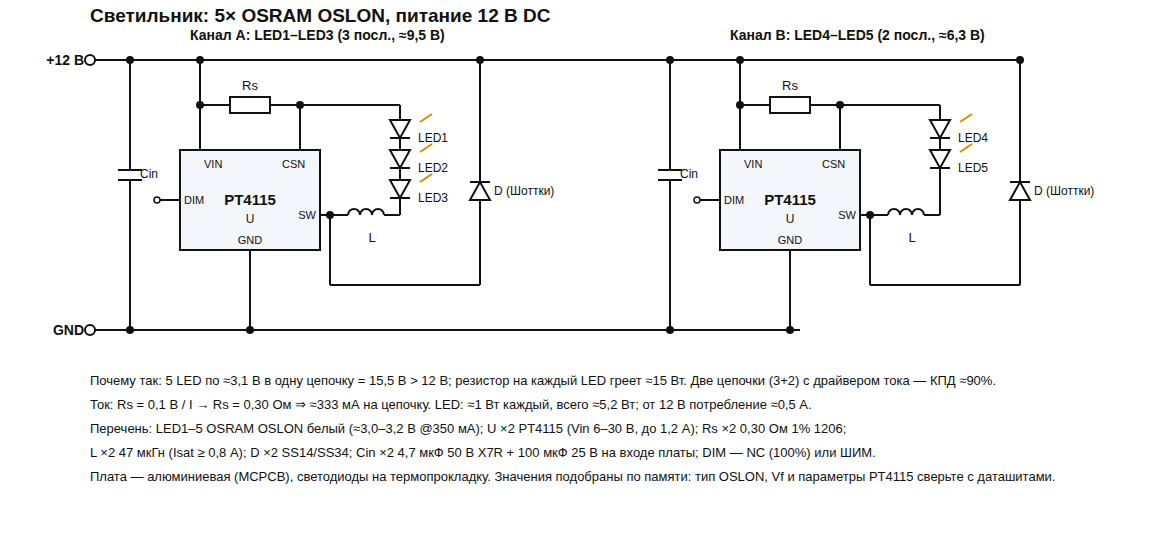
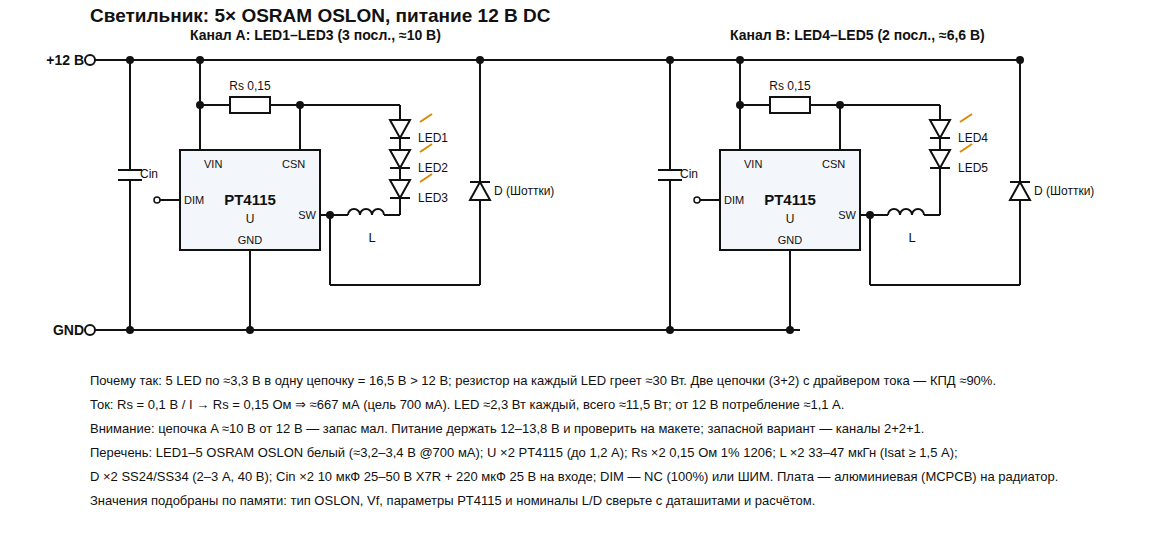
Update lamp schematic for 700 mA and add colored PCB mockup
Claude-Session: https://claude.ai/code/session_01RYAnzsGrTENTgmumnvRpco

diff --git a/led_lamp/make_mockup.py b/led_lamp/make_mockup.py
@@ -1,0 +1,70 @@
+K=8
+def board(ox,oy,on):
+    X=lambda v: ox+K*v; Y=lambda v: oy+K*v
+    g=[]
+    A=g.append
+    A(f'<rect x="{ox}" y="{oy}" width="{130*K}" height="{50*K}" rx="26" fill="#f4f4ef" stroke="#cfd2cc" stroke-width="3" filter="url(#sh)"/>')
+    # traces (copper under mask)
+    def path(d,w=9,c="#e9d6ae"): A(f'<path d="{d}" fill="none" stroke="{c}" stroke-width="{w}" stroke-linecap="round" stroke-linejoin="round"/>')
+    P=lambda pts:'M '+' L '.join(f'{X(a)},{Y(b)}' for a,b in pts)
+    path(P([(27,14),(55,14)])); path(P([(27,14),(24,14),(24,31)])); path(P([(55,14),(60,14),(60,24),(46,24),(46,35)]))
+    path(P([(67,14),(80,14)])); path(P([(67,14),(74,14),(74,31)])); path(P([(80,14),(88,14),(88,24),(96,24),(96,35)]))
+    path(P([(9,22),(16,22),(16,30),(110,30)]),11,"#e3c98e"); path(P([(9,28),(14,28),(14,48),(112,48)]),11,"#e3c98e")
+    # holes
+    for hx,hy in [(4.5,4.5),(125.5,4.5),(4.5,45.5),(125.5,45.5)]:
+        A(f'<circle cx="{X(hx)}" cy="{Y(hy)}" r="{2.4*K}" fill="#d8dbe0" stroke="#b9bec6" stroke-width="2"/><circle cx="{X(hx)}" cy="{Y(hy)}" r="{1.6*K}" fill="#1d2127"/>')
+    # glow under LEDs
+    xs=[28,41,54,67,80]
+    if on:
+        for x in xs: A(f'<circle cx="{X(x)}" cy="{Y(14)}" r="{13*K}" fill="url(#glow)"/>')
+    # LEDs
+    for i,x in enumerate(xs):
+        A(f'<rect x="{X(x-2.4)}" y="{Y(14-1.3)}" width="{4.8*K}" height="{2.6*K}" rx="3" fill="#d4af37"/>')
+        A(f'<rect x="{X(x-1.5)}" y="{Y(14-1.5)}" width="{3*K}" height="{3*K}" rx="4" fill="#fbfbf6" stroke="#b9b9b0" stroke-width="1.5"/>')
+        A(f'<rect x="{X(x-0.85)}" y="{Y(14-0.85)}" width="{1.7*K}" height="{1.7*K}" rx="2" fill="{"#fffbe0" if on else "#e9b92a"}" stroke="#c99a1a" stroke-width="1"/>')
+        if on: A(f'<circle cx="{X(x)}" cy="{Y(14)}" r="{2.2*K}" fill="#fff6c0" filter="url(#bl)"/>')
+        A(f'<text x="{X(x)}" y="{Y(20)}" font-size="17" text-anchor="middle" fill="#222">LED{i+1}</text>')
+    # terminal
+    A(f'<rect x="{X(3)}" y="{Y(18.5)}" width="{9*K}" height="{13*K}" rx="4" fill="#2f6fd6" stroke="#1d4a99" stroke-width="2"/>')
+    for cy in (22,28): A(f'<circle cx="{X(8.2)}" cy="{Y(cy)}" r="{2.1*K}" fill="#d7dbe1" stroke="#8d949e" stroke-width="2"/><line x1="{X(7.0)}" y1="{Y(cy)}" x2="{X(9.4)}" y2="{Y(cy)}" stroke="#555" stroke-width="3"/>')
+    A(f'<rect x="{X(3)}" y="{Y(19.5)}" width="{2*K}" height="{11*K}" fill="#1d4a99"/>')
+    A(f'<text x="{X(7.5)}" y="{Y(17.2)}" font-size="17" text-anchor="middle" fill="#222">+12V</text><text x="{X(7.5)}" y="{Y(34.2)}" font-size="17" text-anchor="middle" fill="#222">GND</text>')
+    def res(cx,cy,vert=False,body="#1c1c1c",cap="#c9ccd1",w=3.2,h=1.6):
+        if vert: w,h=h,w
+        A(f'<rect x="{X(cx-w/2)}" y="{Y(cy-h/2)}" width="{w*K}" height="{h*K}" rx="2" fill="{body}"/>')
+        if not vert:
+            A(f'<rect x="{X(cx-w/2)}" y="{Y(cy-h/2)}" width="{.7*K}" height="{h*K}" fill="{cap}"/><rect x="{X(cx+w/2-.7)}" y="{Y(cy-h/2)}" width="{.7*K}" height="{h*K}" fill="{cap}"/>')
+        else:
+            A(f'<rect x="{X(cx-w/2)}" y="{Y(cy-h/2)}" width="{w*K}" height="{.7*K}" fill="{cap}"/><rect x="{X(cx-w/2)}" y="{Y(cy+h/2-.7)}" width="{w*K}" height="{.7*K}" fill="{cap}"/>')
+    def drv(dx):
+        res(dx+20,39,True,"#c9a66b")      # Cin
+        res(dx+24,33)                      # Rs
+        # U PT4115 SOT-89-5
+        for k in (-1.5,0,1.5): A(f'<rect x="{X(dx+31+k-.3)}" y="{Y(39.9)}" width="{.6*K}" height="{1.4*K}" fill="#c9ccd1"/>')
+        for k in (-.75,.75): A(f'<rect x="{X(dx+31+k-.3)}" y="{Y(35.7)}" width="{.6*K}" height="{1.3*K}" fill="#c9ccd1"/>')
+        A(f'<rect x="{X(dx+31-2.25)}" y="{Y(36.5)}" width="{4.5*K}" height="{3.6*K}" rx="3" fill="#2b2e33"/>')
+        A(f'<text x="{X(dx+31)}" y="{Y(38.7)}" font-size="9" text-anchor="middle" fill="#9aa0aa">PT4115</text>')
+        # L
+        A(f'<rect x="{X(dx+43)}" y="{Y(35)}" width="{6*K}" height="{6*K}" rx="5" fill="#3d4047" stroke="#2a2c31" stroke-width="2"/>')
+        A(f'<rect x="{X(dx+43)}" y="{Y(35)}" width="{1*K}" height="{6*K}" fill="#c9ccd1"/><rect x="{X(dx+48)}" y="{Y(35)}" width="{1*K}" height="{6*K}" fill="#c9ccd1"/>')
+        A(f'<text x="{X(dx+46)}" y="{Y(38.4)}" font-size="11" text-anchor="middle" fill="#aab0ba">47µ</text>')
+        # D (SMA)
+        A(f'<rect x="{X(dx+53.9)}" y="{Y(38.7)}" width="{4.3*K}" height="{2.6*K}" rx="2" fill="#16171a"/><rect x="{X(dx+56.8)}" y="{Y(38.7)}" width="{.7*K}" height="{2.6*K}" fill="#d9dce1"/>')
+        A(f'<rect x="{X(dx+52.9)}" y="{Y(39.1)}" width="{1.2*K}" height="{1.8*K}" fill="#c9ccd1"/><rect x="{X(dx+58.1)}" y="{Y(39.1)}" width="{1.2*K}" height="{1.8*K}" fill="#c9ccd1"/>')
+    drv(0); drv(50)
+    A(f'<text x="{X(31)}" y="{Y(44.5)}" font-size="15" text-anchor="middle" fill="#222">U1</text><text x="{X(81)}" y="{Y(44.5)}" font-size="15" text-anchor="middle" fill="#222">U2</text>')
+    A(f'<text x="{X(65)}" y="{Y(6)}" font-size="24" text-anchor="middle" fill="#222" font-weight="700">LAMP 5×OSLON 12V</text>')
+    A(f'<text x="{X(112)}" y="{Y(13)}" font-size="30" text-anchor="middle" fill="#222" font-weight="700">700 mA</text>')
+    A(f'<text x="{X(112)}" y="{Y(19)}" font-size="14" text-anchor="middle" fill="#222">REV A · MCPCB</text>')
+    return "".join(g)
+W,H=1180,1060
+defs='''<defs>
+<filter id="sh" x="-5%" y="-5%" width="110%" height="120%"><feDropShadow dx="0" dy="8" stdDeviation="9" flood-color="#000" flood-opacity="0.55"/></filter>
+<filter id="bl" x="-200%" y="-200%" width="500%" height="500%"><feGaussianBlur stdDeviation="9"/></filter>
+<radialGradient id="glow"><stop offset="0" stop-color="#ffd24a" stop-opacity="0.85"/><stop offset="0.35" stop-color="#ffd24a" stop-opacity="0.35"/><stop offset="1" stop-color="#ffd24a" stop-opacity="0"/></radialGradient></defs>'''
+body=f'<rect width="{W}" height="{H}" fill="#23272e"/>'
+body+='<text x="70" y="52" font-size="26" fill="#f2f4f7" font-weight="700">Макет платы светильника (вид сверху, условная компоновка)</text>'
+body+='<text x="70" y="100" font-size="18" fill="#aab2bd">Выключен</text>'+board(70,115,False)
+body+='<text x="70" y="590" font-size="18" fill="#aab2bd">Включён (700 мА, тёплый белый)</text>'+board(70,605,True)
+body+='<text x="70" y="1048" font-size="15" fill="#8a929d">Алюминиевая плата MCPCB ≈130×50 мм, белая паяльная маска, чёрная шелкография. Размещение условное: разводка и Gerber ещё не сделаны.</text>'
+open('lamp_mockup.svg','w',encoding='utf-8').write(f'<svg xmlns="http://www.w3.org/2000/svg" width="{W}" height="{H}" viewBox="0 0 {W} {H}" font-family="Liberation Sans, Arial, sans-serif">{defs}{body}</svg>')

diff --git a/led_lamp/make_schematic.py b/led_lamp/make_schematic.py
@@ -14,7 +14,7 @@ def channel(ox,n,title,led0):
     ln(ox+140,RAIL,ox+140,150); dot(ox+140,RAIL); dot(ox+140,105)
     # Rs
     ln(ox+140,105,ox+170,105); S.append(f'<rect x="{ox+170}" y="97" width="40" height="16" fill="none" stroke="#111" stroke-width="2"/>')
-    ln(ox+210,105,ox+240,105); ln(ox+240,105,ox+240,150); dot(ox+240,105); tx(ox+190,90,"Rs",13,"middle")
+    ln(ox+210,105,ox+240,105); ln(ox+240,105,ox+240,150); dot(ox+240,105); tx(ox+190,90,"Rs 0,15",12,"middle")
     # IC
     S.append(f'<rect x="{ox+120}" y="150" width="140" height="100" fill="#f3f6fb" stroke="#111" stroke-width="2"/>')
     tx(ox+190,205,"PT4115",15,"middle",True); tx(ox+190,223,"U",12,"middle")
@@ -38,17 +38,18 @@ def channel(ox,n,title,led0):
     ln(ox+270,215,ox+270,285); ln(ox+270,285,ox+420,285); ln(ox+420,285,ox+420,200)
     S.append(f'<polygon points="{ox+410},200 {ox+430},200 {ox+420},182" fill="#fff" stroke="#111" stroke-width="2"/>')
     ln(ox+410,182,ox+430,182); ln(ox+420,182,ox+420,RAIL); dot(ox+420,RAIL); tx(ox+434,195,"D (Шоттки)",12)
-channel(0,3,"Канал A: LED1–LED3 (3 посл., ≈9,5 В)",1)
-channel(540,2,"Канал B: LED4–LED5 (2 посл., ≈6,3 В)",4)
+channel(0,3,"Канал A: LED1–LED3 (3 посл., ≈10 В)",1)
+channel(540,2,"Канал B: LED4–LED5 (2 посл., ≈6,6 В)",4)
 ln(30,RAIL,960,RAIL); ln(30,GND,740,GND)
 for (x,y,t) in [(30,RAIL,"+12 В"),(30,GND,"GND")]:
     S.append(f'<circle cx="{x}" cy="{y}" r="5" fill="#fff" stroke="#111" stroke-width="2"/>'); tx(x-6,y+5,t,14,"end",True)
 tx(30,22,"Светильник: 5× OSRAM OSLON, питание 12 В DC",19,b=True)
-notes=["Почему так: 5 LED по ≈3,1 В в одну цепочку = 15,5 В > 12 В; резистор на каждый LED греет ≈15 Вт. Две цепочки (3+2) с драйвером тока — КПД ≈90%.",
-"Ток: Rs = 0,1 В / I → Rs = 0,30 Ом ⇒ ≈333 мА на цепочку. LED: ≈1 Вт каждый, всего ≈5,2 Вт; от 12 В потребление ≈0,5 А.",
-"Перечень: LED1–5 OSRAM OSLON белый (≈3,0–3,2 В @350 мА); U ×2 PT4115 (Vin 6–30 В, до 1,2 А); Rs ×2 0,30 Ом 1% 1206;",
-"L ×2 47 мкГн (Isat ≥ 0,8 А); D ×2 SS14/SS34; Cin ×2 4,7 мкФ 50 В X7R + 100 мкФ 25 В на входе платы; DIM — NC (100%) или ШИМ.",
-"Плата — алюминиевая (MCPCB), светодиоды на термопрокладку. Значения подобраны по памяти: тип OSLON, Vf и параметры PT4115 сверьте с даташитами."]
+notes=["Почему так: 5 LED по ≈3,3 В в одну цепочку = 16,5 В > 12 В; резистор на каждый LED греет ≈30 Вт. Две цепочки (3+2) с драйвером тока — КПД ≈90%.",
+"Ток: Rs = 0,1 В / I → Rs = 0,15 Ом ⇒ ≈667 мА (цель 700 мА). LED ≈2,3 Вт каждый, всего ≈11,5 Вт; от 12 В потребление ≈1,1 А.",
+"Внимание: цепочка A ≈10 В от 12 В — запас мал. Питание держать 12–13,8 В и проверить на макете; запасной вариант — каналы 2+2+1.",
+"Перечень: LED1–5 OSRAM OSLON белый (≈3,2–3,4 В @700 мА); U ×2 PT4115 (до 1,2 А); Rs ×2 0,15 Ом 1% 1206; L ×2 33–47 мкГн (Isat ≥ 1,5 А);",
+"D ×2 SS24/SS34 (2–3 А, 40 В); Cin ×2 10 мкФ 25–50 В X7R + 220 мкФ 25 В на входе; DIM — NC (100%) или ШИМ. Плата — алюминиевая (MCPCB) на радиатор.",
+"Значения подобраны по памяти: тип OSLON, Vf, параметры PT4115 и номиналы L/D сверьте с даташитами и расчётом."]
 for i,t in enumerate(notes): tx(30,385+24*i,t,13)
 svg=f'<svg xmlns="http://www.w3.org/2000/svg" width="1160" height="540" viewBox="0 0 1160 540" font-family="Liberation Sans, Arial, sans-serif"><rect width="1160" height="540" fill="#fff"/><g transform="translate(60,0)">'+"".join(S)+'</g></svg>'
 open('lamp_schematic.svg','w',encoding='utf-8').write(svg)
